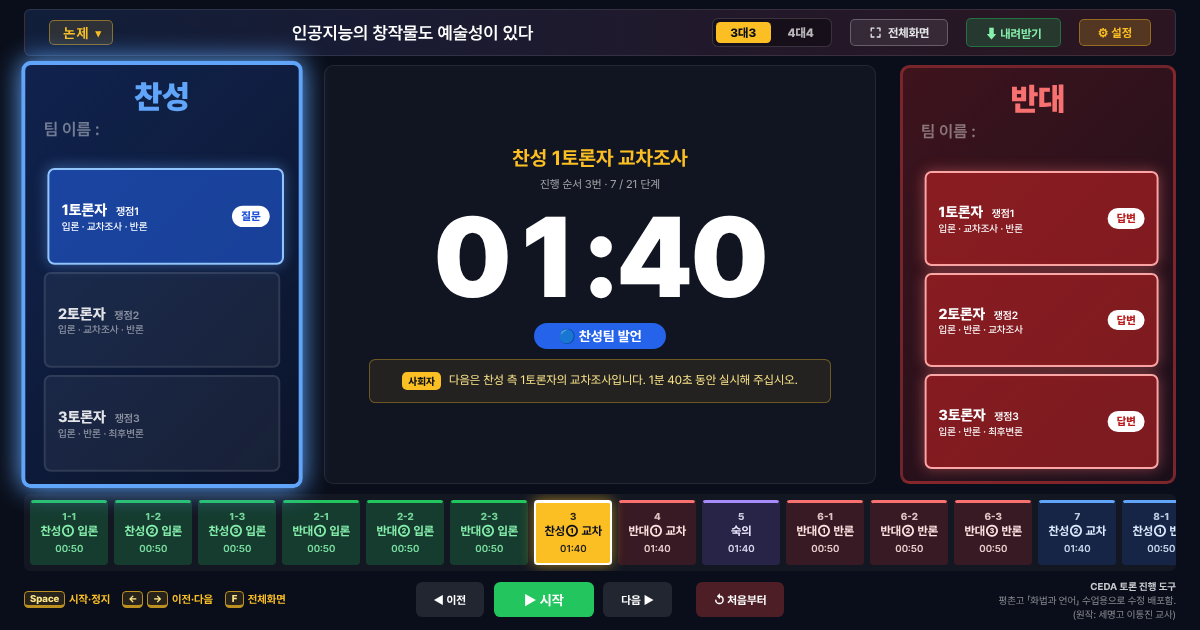
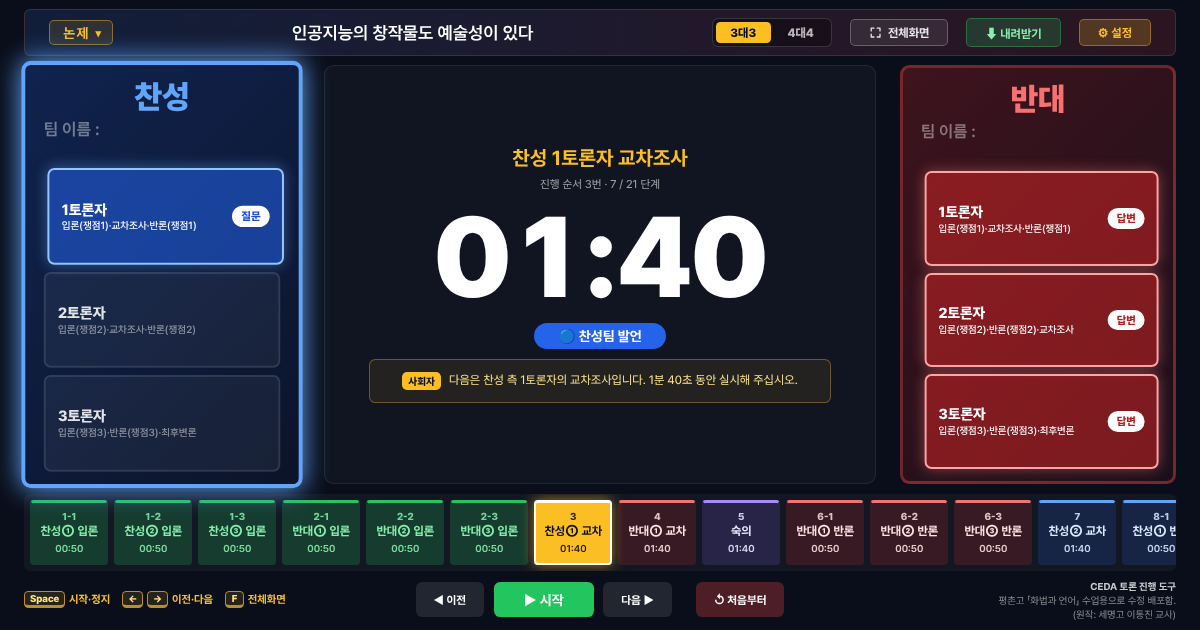
토론자 칸 역할 표시: 쟁점을 그 쟁점을 맡은 순서에만 붙임
- 제목 줄은 'N토론자'만, 역할 줄은 '입론(쟁점1)·교차조사·반론(쟁점1)'처럼 쟁점이 정해진 순서에만 쟁점 표시
  (4대4 교차조사처럼 시간표에 쟁점이 적힌 경우는 '교차조사(쟁점1·2)', 상호토론·최후변론 등은 이름만)
- 역할 줄이 길면 '·' 뒤에서만 두 줄로 (역할과 쟁점 사이는 끊지 않음).
  두 줄에도 안 들어가는 아주 좁은 칸(화면 반쪽 창)만 괄호 앞에서 줄바꿈 허용, 키가 아주 낮은 화면은 한 줄로
- 역할 글자 길이가 팀 칸 너비를 밀어내지 않게 해서, 휴대폰 가로에서 아래 버튼이 밀려나지 않게

Claude-Session: https://claude.ai/code/session_01R4biVdc5hCenkpsgwBPMVp

diff --git a/index.html b/index.html
@@ -288,7 +288,16 @@
   .slot-main { flex: 1; min-width: 0; display: flex; flex-direction: column; gap: calc(0.3 * var(--u)); }
   .slot-title { display: flex; align-items: baseline; gap: 0.6em; color: rgba(255,255,255,0.88); font-weight: 800; font-size: max(calc(2.3 * var(--u)), 13px); white-space: nowrap; }
   .slot-issue { color: rgba(255,255,255,0.5); font-weight: 600; font-size: 0.72em; }
-  .slot-roles { color: rgba(255,255,255,0.5); font-weight: 500; font-size: max(calc(1.5 * var(--u)), 10px); white-space: nowrap; overflow: hidden; text-overflow: ellipsis; }
+  /* 역할 줄: 길면 '·' 자리에서만 두 줄로 (입론(쟁점1) 같은 묶음은 끊지 않음) */
+  .slot-roles {
+    color: rgba(255,255,255,0.5); font-weight: 500; font-size: max(calc(1.5 * var(--u)), 10px); line-height: 1.3;
+    width: 0; min-width: 100%;   /* 글자 길이가 팀 칸 너비를 밀어내지 않게 (칸 너비에 맞춰 줄임) */
+    white-space: normal; word-break: keep-all; overflow: hidden;
+    display: -webkit-box; -webkit-box-orient: vertical; -webkit-line-clamp: 2;
+  }
+  .slot-roles .role { white-space: nowrap; }   /* 역할 하나는 끊지 않음 */
+  /* 역할을 통째로 두면 세 줄이 되는 칸만(화면 반쪽 창 등): 역할 안(괄호 앞)에서도 줄바꿈 허용 */
+  .slot-roles.tight .role { white-space: normal; }
   .slot-badge {
     flex-shrink: 0;
     visibility: hidden;
@@ -955,7 +964,8 @@
   @media (max-height: 480px) {
     .team-name { font-size: max(calc(2.6 * var(--u)), 11px); }
     .slot-title { font-size: max(calc(2.3 * var(--u)), 11px); }
-    .slot-roles { font-size: max(calc(1.5 * var(--u)), 9px); }
+    .slot-roles { font-size: max(calc(1.5 * var(--u)), 9px); line-height: normal; display: block; white-space: nowrap; text-overflow: ellipsis; }   /* 두 줄 둘 자리가 없어 한 줄로 */
+    .slot-roles .role, .slot-roles.tight .role { white-space: nowrap; }
     .slot-badge { font-size: max(calc(1.6 * var(--u)), 9px); }
     .mc-line { min-height: max(calc(7 * var(--u)), 34px); font-size: max(calc(1.9 * var(--u)), 10.5px); line-height: 1.35; }
     .step { min-width: 7.5vw; font-size: max(calc(1.7 * var(--u)), 11px); line-height: 1.2; }
@@ -1365,7 +1375,9 @@
   // ========== 토론자 슬롯 ==========
   const SIDE_KEY = { '찬성': 'pro', '정부': 'pro', '반대': 'con', '야당': 'con' };
 
-  // 각 측 토론자 수와 토론자별 맡은 순서(입론·교차조사·반론·최후변론)를 단계 목록에서 뽑음
+  // 각 측 토론자 수와 토론자별 맡은 순서를 단계 목록에서 뽑음.
+  // 쟁점은 그 쟁점을 맡은 순서에만 붙임 → 예) 입론(쟁점1)·교차조사·반론(쟁점1)
+  // (상호토론·최후변론처럼 쟁점이 정해지지 않은 순서는 이름만)
   function slotInfo() {
     const info = { pro: {}, con: {} };
     stages.forEach(st => {
@@ -1373,7 +1385,8 @@
       if (!p || !SIDE_KEY[p.side]) return;
       const d = info[SIDE_KEY[p.side]][p.num] = info[SIDE_KEY[p.side]][p.num] || { roles: [], issue: '' };
       const act = p.act.replace(/\s+/g, '');
-      if (!d.roles.includes(act)) d.roles.push(act);
+      const role = act + (p.issue ? `(${p.issue.replace(/\s+/g, '')})` : '');
+      if (!d.roles.includes(role)) d.roles.push(role);
       if (!d.issue && /입론|반론/.test(act) && /^쟁점/.test(p.issue)) d.issue = p.issue;
     });
     return info;
@@ -1393,9 +1406,16 @@
         const main = document.createElement('div'); main.className = 'slot-main';
         const title = document.createElement('div'); title.className = 'slot-title';
         title.textContent = `${num}토론자`;
-        if (d.issue) { const is = document.createElement('span'); is.className = 'slot-issue'; is.textContent = d.issue; title.appendChild(is); }
         const roles = document.createElement('div'); roles.className = 'slot-roles';
-        roles.textContent = d.roles.join(' · ');
+        roles.title = d.roles.join('·');
+        // 역할 하나(예: 반론(쟁점1))는 끊기지 않는 한 덩어리로, '·' 뒤에서만 줄이 바뀜
+        d.roles.forEach((r, k) => {
+          const span = document.createElement('span');
+          span.className = 'role';
+          span.textContent = r + (k < d.roles.length - 1 ? '·' : '');
+          roles.appendChild(span);
+          if (k < d.roles.length - 1) roles.appendChild(document.createTextNode('\u200B'));
+        });
         const badge = document.createElement('div'); badge.className = 'slot-badge';
         main.append(title, roles);
         slot.append(main, badge);
@@ -1430,12 +1450,24 @@
     return on;
   }
 
+  let lastSlotState = '';
   function updateSlots() {
     const on = currentStage >= 0 ? slotActivity(stages[currentStage]) : {};
     document.querySelectorAll('.slot').forEach(el => {
       const label = on[el.dataset.key];
       el.classList.toggle('on', !!label);
       el.querySelector('.slot-badge').textContent = label || '';
+    });
+    // 표시(질문·답변 등)가 바뀌면 역할 줄 너비가 달라지므로 줄바꿈을 다시 맞춤
+    const state = JSON.stringify(on) + '|' + [...document.querySelectorAll('.slot-roles')].map(e => e.textContent).join('/');
+    if (state !== lastSlotState) { lastSlotState = state; fitRoles(); }
+  }
+
+  // 역할 줄: 역할을 통째로 두고 두 줄에 다 들어가면 그대로, 넘치면 그 칸만 역할 안에서도 줄바꿈 허용
+  function fitRoles() {
+    document.querySelectorAll('.slot-roles').forEach(el => {
+      el.classList.remove('tight');
+      if (el.scrollHeight > el.clientHeight + 1) el.classList.add('tight');
     });
   }
 
@@ -2525,7 +2557,7 @@
     if (!document.getElementById('topicMenu').classList.contains('show')) return;
     if (!document.getElementById('topicPicker').contains(e.target)) toggleTopicMenu(false);
   });
-  window.addEventListener('resize', fitTopic);
+  window.addEventListener('resize', () => { fitTopic(); fitRoles(); });
   // 글꼴이 늦게 도착하면 글자 폭이 바뀌므로 논제 크기를 다시 맞추고,
   // Pretendard를 실제로 불러왔는지 표시 (불러오지 못했으면 기기 기본 글꼴 그대로)
   function onFontsLoaded() {
@@ -2535,6 +2567,7 @@
       }
     } catch (e) {}
     fitTopic();
+    fitRoles();
   }
   if (document.fonts) {
     document.fonts.ready.then(onFontsLoaded);
